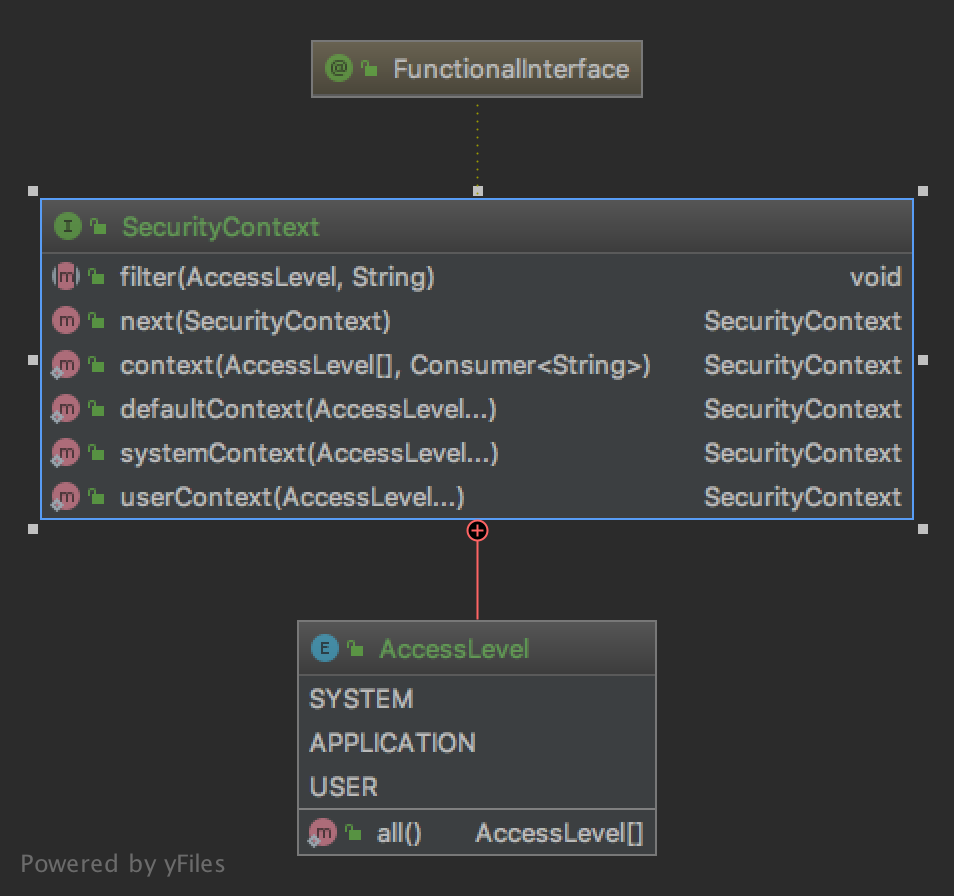
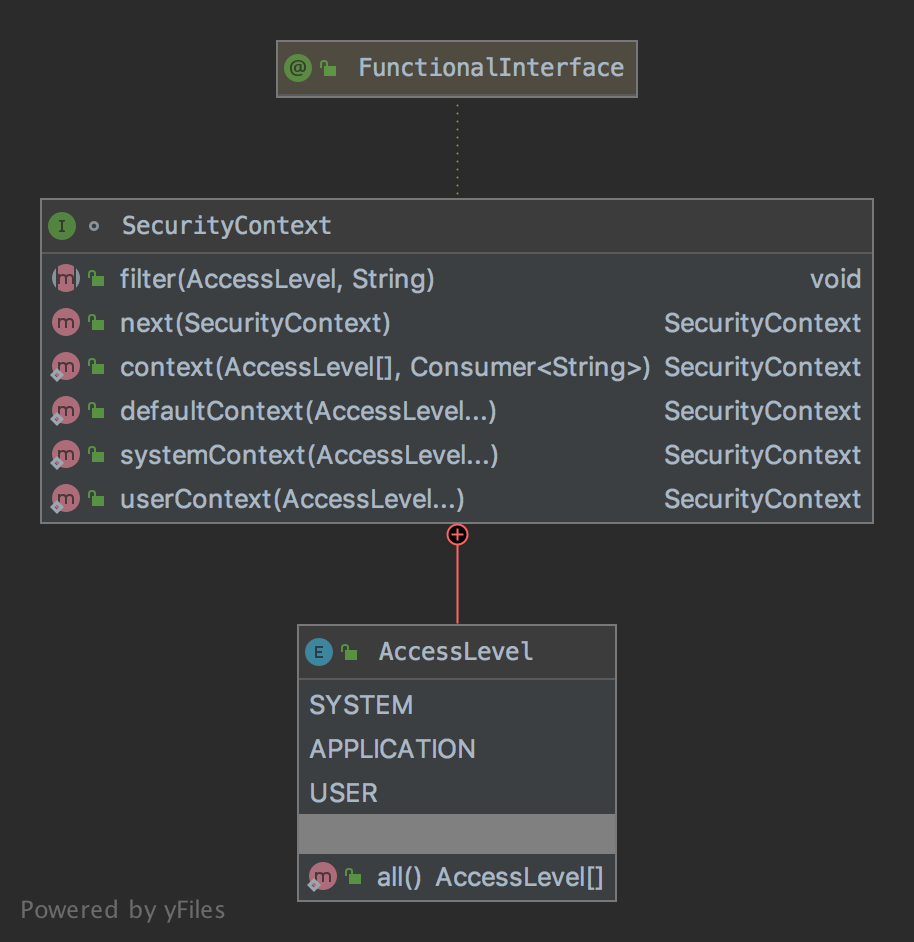
Updated the chain of responsibility design pattern.

diff --git a/design-patterns/src/test/java/com/github/akarazhev/tutorial/designpatterns/chainofresponsibility/SecurityContextTest.java b/design-patterns/src/test/java/com/github/akarazhev/tutorial/designpatterns/chainofresponsibility/SecurityContextTest.java
@@ -12,7 +12,7 @@ final class SecurityContextTest {
     @Test
     @DisplayName("Filter requests")
     void filterRequest() {
-        final SecurityContext context = SecurityContext.defaultContext(SecurityContext.AccessLevel.all()).
+        final var context = SecurityContext.defaultContext(SecurityContext.AccessLevel.all()).
                 next(SecurityContext.userContext(SecurityContext.AccessLevel.USER)).
                 next(SecurityContext.systemContext(SecurityContext.AccessLevel.SYSTEM, SecurityContext.AccessLevel.USER));
 

diff --git a/design-patterns/src/main/java/com/github/akarazhev/tutorial/designpatterns/chainofresponsibility/SecurityContext.java b/design-patterns/src/main/java/com/github/akarazhev/tutorial/designpatterns/chainofresponsibility/SecurityContext.java
@@ -8,7 +8,7 @@ import java.util.function.Consumer;
  * Provides basic methods for a security context.
  */
 @FunctionalInterface
-public interface SecurityContext {
+interface SecurityContext {
     /**
      * All available access levels.
      */

diff --git a/design-patterns/doc/chain-of-responsibility.md b/design-patterns/doc/chain-of-responsibility.md
@@ -33,11 +33,11 @@ The task:
 > Let's consider to create a security context with different access levels that should also treat a chain of 
 security contexts.
 
-Let's create a security access:
+Let's create a security context:
 
 ```java
 @FunctionalInterface
-public interface SecurityContext {
+interface SecurityContext {
     enum AccessLevel {
         SYSTEM, APPLICATION, USER;
 
@@ -78,10 +78,10 @@ public interface SecurityContext {
 }
 ```
 
-And then it can be used as:
+So it can be used as:
 
 ```java
-final SecurityContext context = SecurityContext.defaultContext(SecurityContext.AccessLevel.all()).
+final var context = SecurityContext.defaultContext(SecurityContext.AccessLevel.all()).
         next(SecurityContext.userContext(SecurityContext.AccessLevel.USER)).
         next(SecurityContext.systemContext(SecurityContext.AccessLevel.SYSTEM, SecurityContext.AccessLevel.USER));
 
